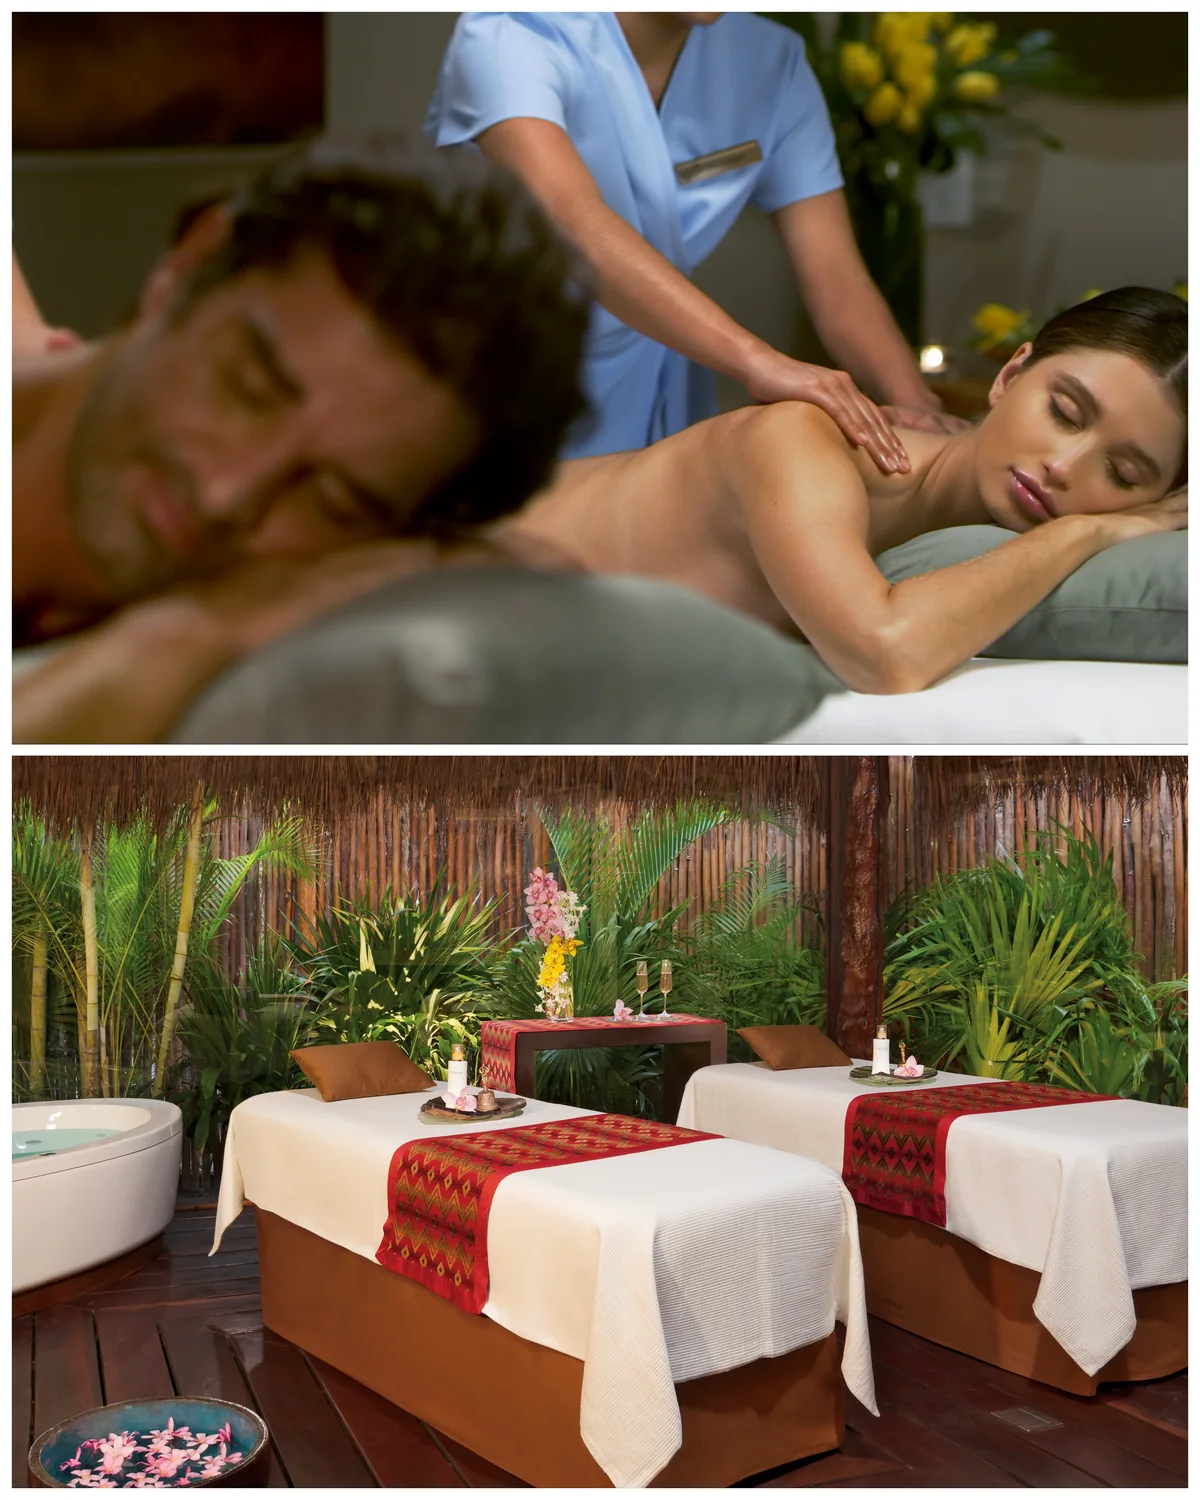
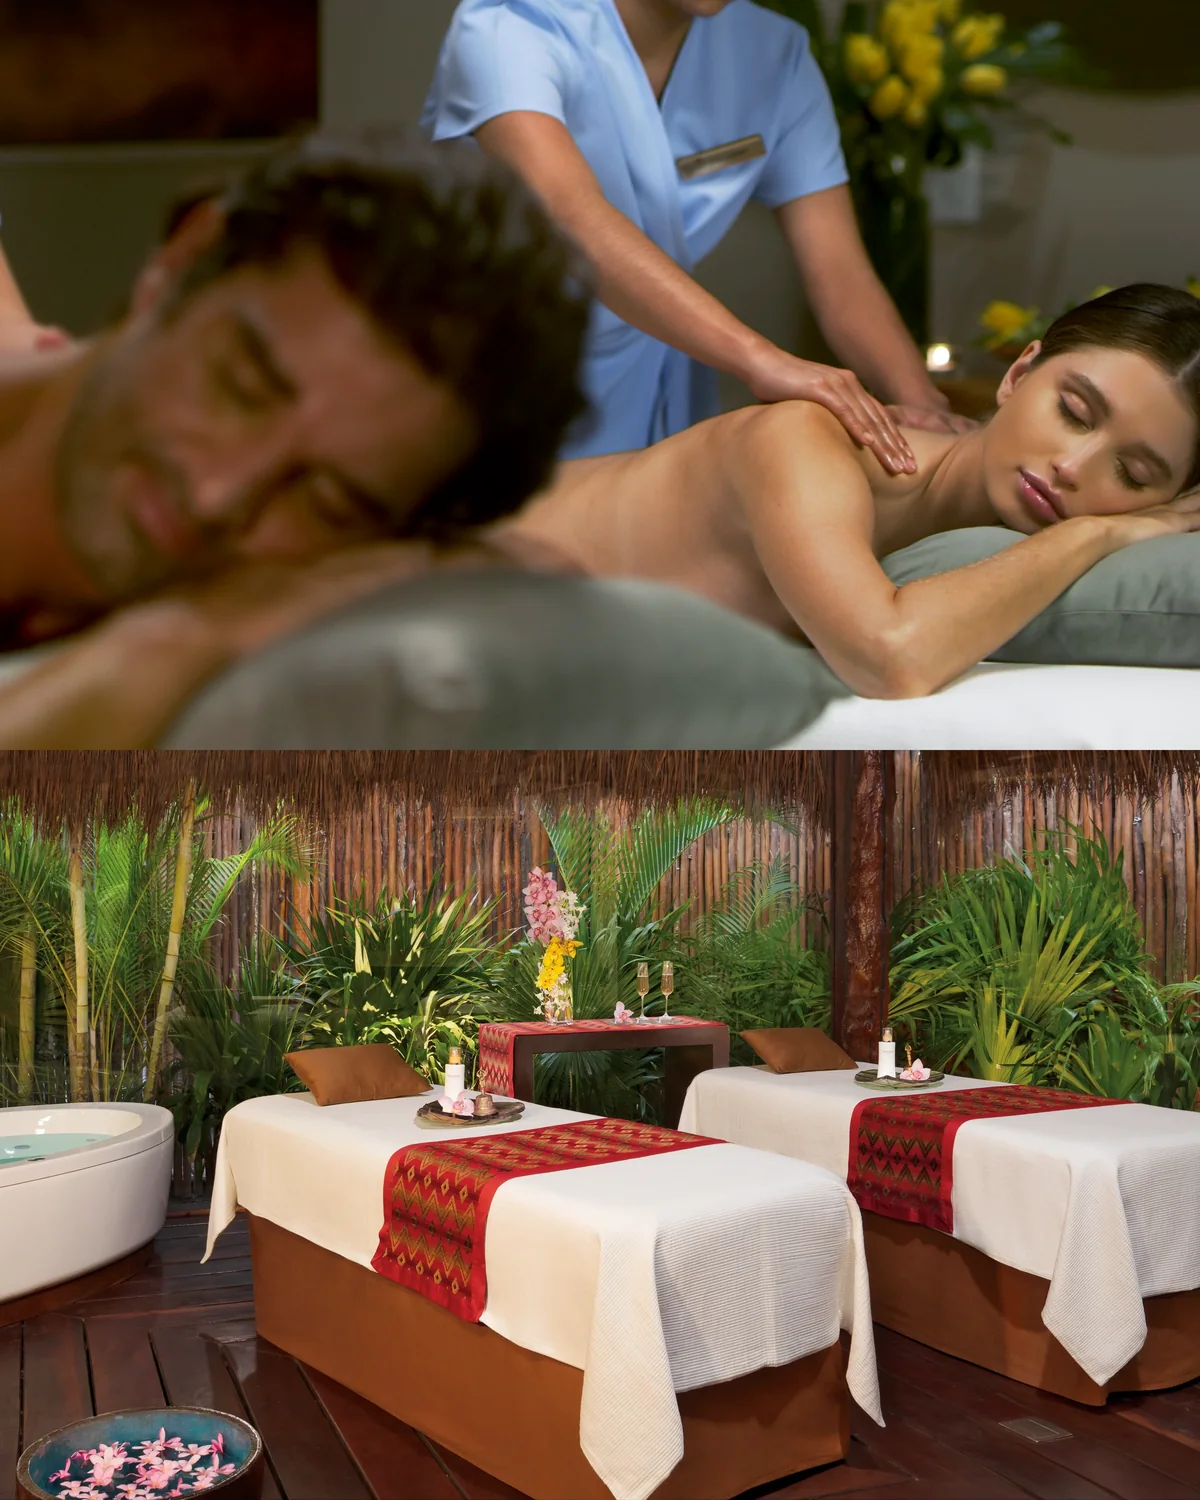
v29.9: miniaturas del masaje en pareja sin franjas blancas
Claude-Session: https://claude.ai/code/session_01CwU2AKiE9JS5KPBQ1KQZZR

diff --git a/index.html b/index.html
@@ -12,7 +12,7 @@
 <link rel="icon" type="image/png" href="icon-192.png">
 <link rel="apple-touch-icon" href="icon-192.png">
 <script>(function(){var t;try{t=localStorage.getItem('gs-theme')}catch(e){}if(t!=='light'&&t!=='dark')t=(window.matchMedia&&matchMedia('(prefers-color-scheme: dark)').matches)?'dark':'light';document.documentElement.setAttribute('data-theme',t);})();</script>
-<title>Gift Studio v29.8</title>
+<title>Gift Studio v29.9</title>
 <link rel="preconnect" href="https://fonts.googleapis.com">
 <link rel="preconnect" href="https://fonts.gstatic.com" crossorigin>
 <link href="https://fonts.googleapis.com/css2?family=Playfair+Display:wght@600;700&family=Poppins:ital,wght@0,400;0,500;0,600;1,700&display=swap" rel="stylesheet">
@@ -3443,7 +3443,7 @@ function snapshot() {
     return { id, qty: sl.qty, kinds: it.kinds ? personKinds(it, sl) : undefined, cbd: it.kinds ? personCbd(it, sl) : undefined, manualOpt: sl.manual ? sl.opt : undefined,
       vipUnits: (v.units[id] || []).map(i => `${it.opts[i].pay}/${it.opts[i].b}`), regular: lineReg(it, sl) }; });
   return {
-    app: 'Gift Studio v29.8', time: new Date().toISOString(), lang: S.lang, mode: S.mode,
+    app: 'Gift Studio v29.9', time: new Date().toISOString(), lang: S.lang, mode: S.mode,
     guestBudget: hasBud() ? S.will : null, vouchers: S.step / VOUCHER, voucherValue: S.step, 
     cert: S.cart.cert, cart: lines, wish: S.wish,
     vip: { guestPays: v.cost, copays: v.pay, budgetUsed: v.used, overflow: v.overflow, left: S.will - v.cost, regularValue: v.value },
